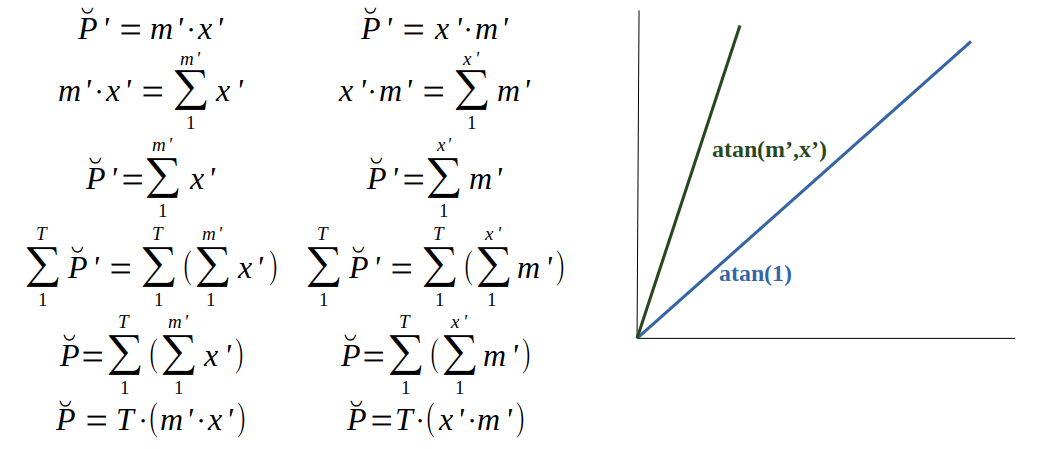
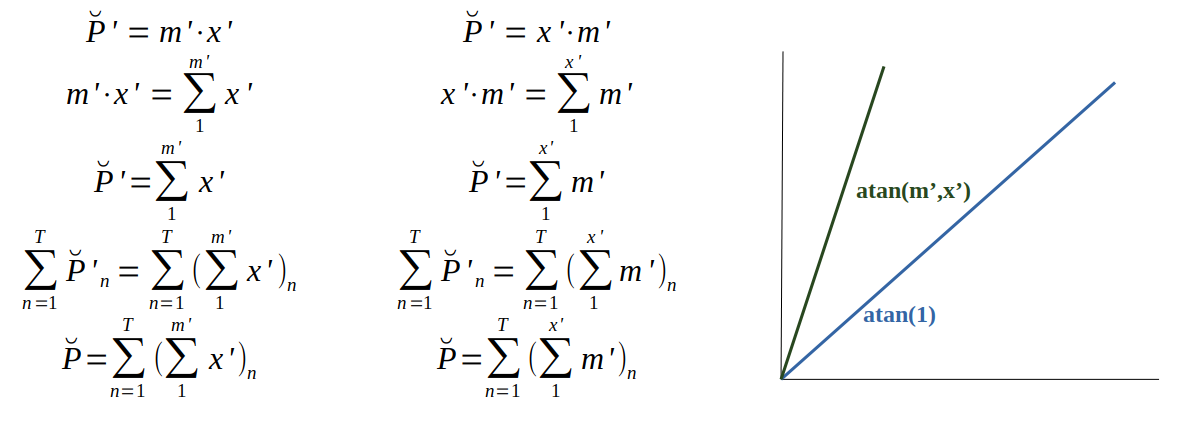
Initial commit

diff --git a/code.html b/code.html
@@ -42,7 +42,7 @@ Click nbfs://nbhost/SystemFileSystem/Templates/ClientSide/html.html to edit this
             <div class="container">
                 <div class="card mb-4">
                     <div class="card-body">
-                        <h5 class="card-title">Returning to the <strong>Inertial Factor </strong><span class="badge rounded-pill text-bg-success">Updated 09/24/2023</span></h5>           
+                        <h5 class="card-title">Returning to the <strong>Inertial Factor </strong><span class="badge rounded-pill text-bg-success">Updated 09/26/2023</span></h5>           
                         <div class="card-text">
                             <p><em>PRELIMINARY</em> <small><i>(On the go until further revision. Read with tweezers)</i></small></p>
                             <p>
@@ -60,9 +60,9 @@ Click nbfs://nbhost/SystemFileSystem/Templates/ClientSide/html.html to edit this
                                 and so with a possible primitive one which can be reached by this diff accumulation. This accumulation in order to
                                 fullfill some units rules will loose the time as inherited dimension in the denominator. Matching this function to
                                 a new given variable should supposedly consider the lost time dimension. It was not the case but that new variable
-                                has to be understood as the accumulation in the whole time. It has not to be multiplied by time for the equality to occur. 
+                                has to be understood as the accumulation in the whole time.
                             </p>
-                            <img src="img/sumatorio.png" alt="" width="250" height="300"/>
+                            <p><img src="img/sumatorio.png" alt="" width="670" height="270"/></p>
                             <p>
                                 Continue (probably with complex numbers) ...
                             </p>

diff --git a/index.html b/index.html
@@ -31,7 +31,7 @@
                             <a class="nav-link active" aria-current="page" href="index.html">Home</a>
                             <a class="nav-link active" aria-current="page" href="code.html">About</a>
                             <a class="nav-link active" aria-current="page" href="code.html">Downloads</a>
-                            <span class="badge text-bg-success">About Updated 09/24/2023</span>
+                            <span class="badge text-bg-success">About Updated 09/26/2023</span>
                         </div>
                     </div>
                 </div>
